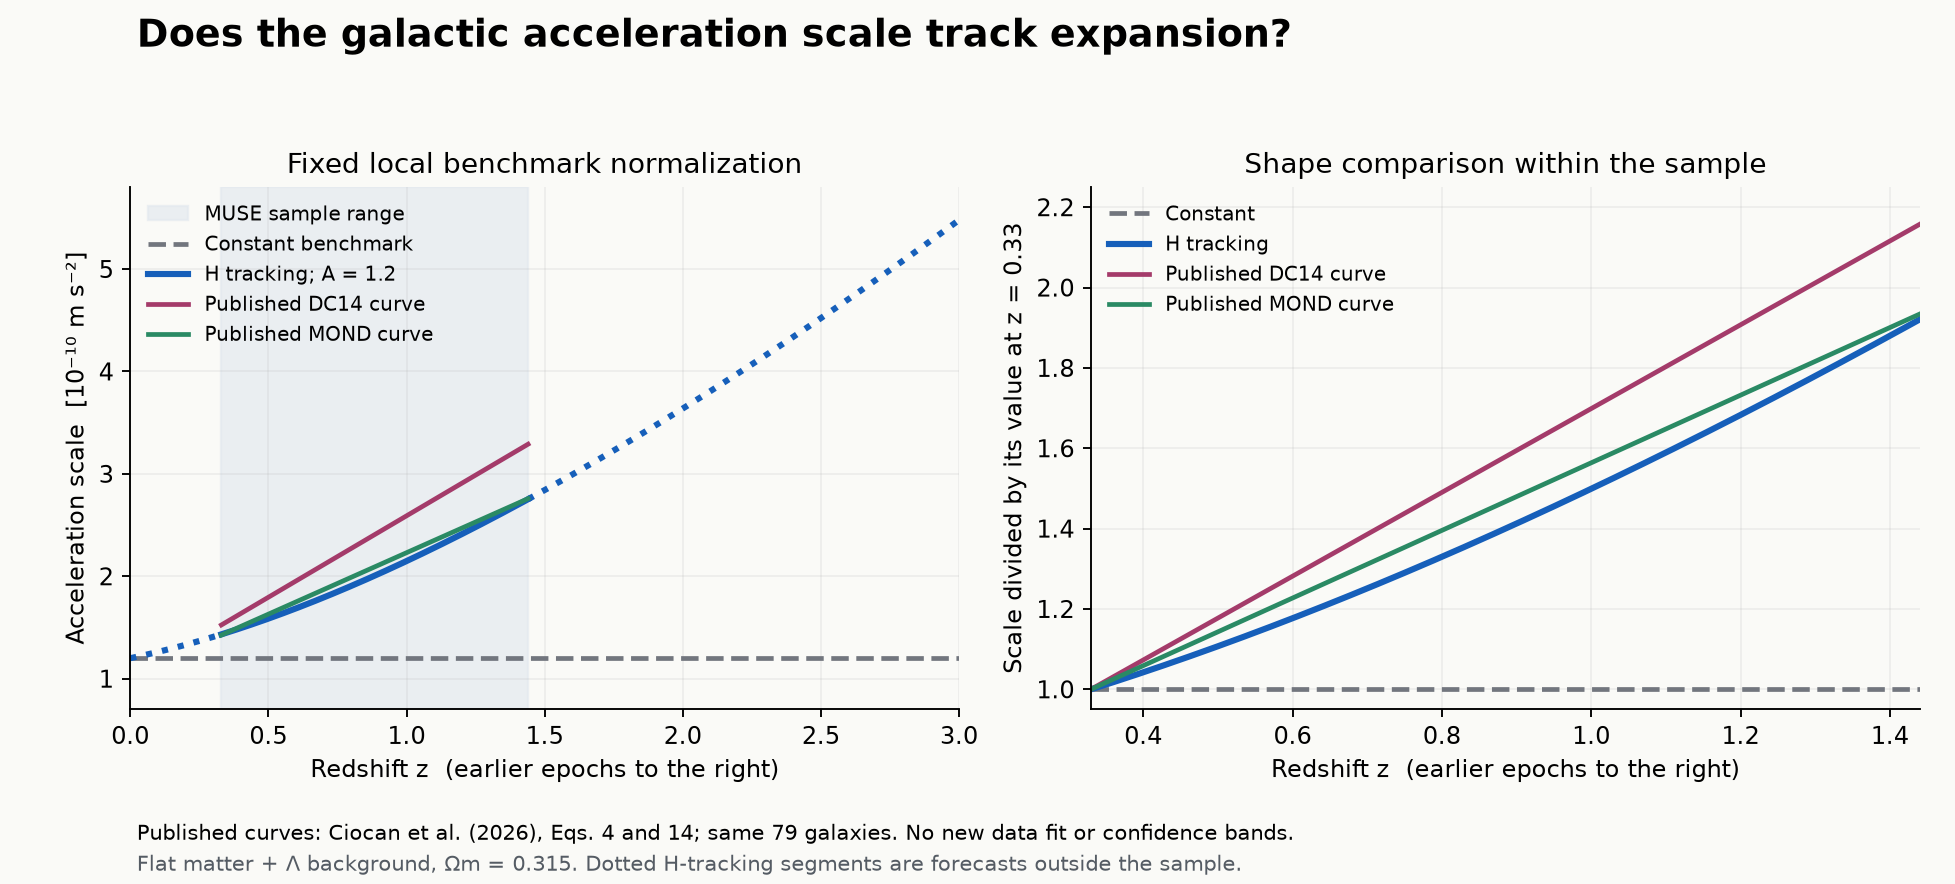
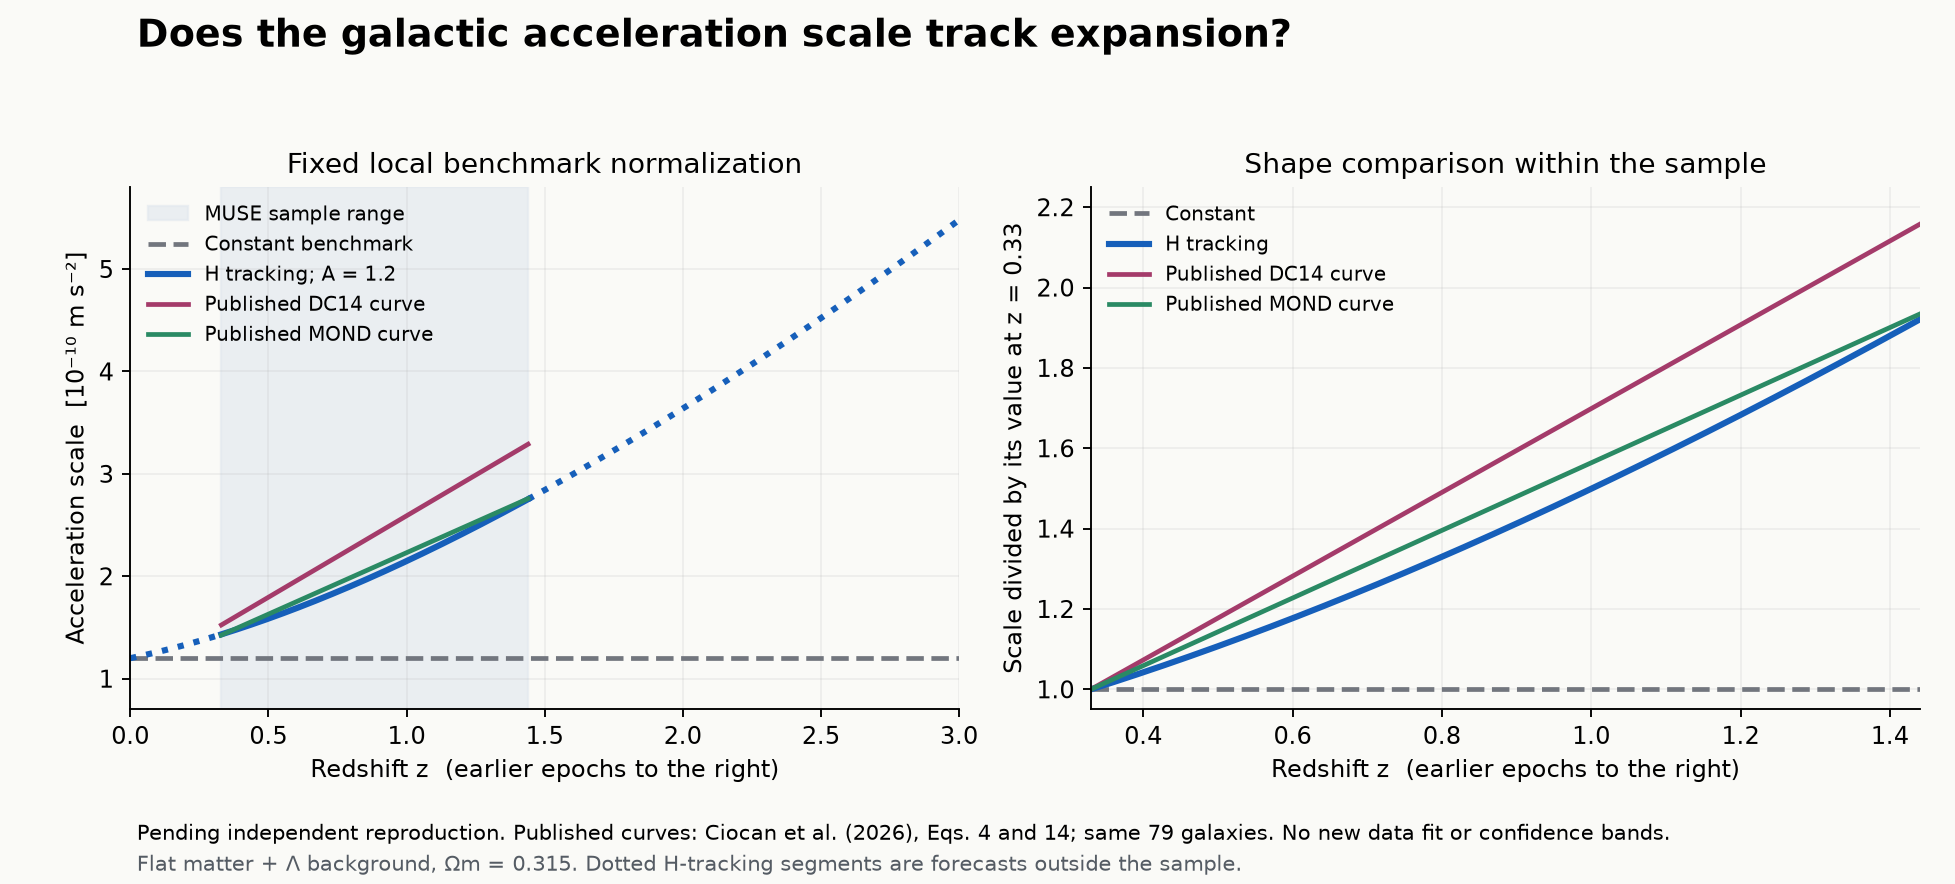
Stamp pending-reproduction status into the acceleration-evolution study
Put "Pending independent reproduction" in results.json, comparison.json,
the figure caption, and the README status line. Pin the study workflow
actions to the checkout and setup-python v7 SHAs.

Changed region(s): [[0.0624, 0.9163, 0.8425, 0.9774]]

diff --git a/acceleration-evolution/plot.py b/acceleration-evolution/plot.py
@@ -52,7 +52,7 @@ right.set(xlim=(lo, hi), ylim=(0.95, 2.25), ylabel="Scale divided by its value a
 left.legend(loc="upper left", frameon=False, fontsize=8.5)
 right.legend(loc="upper left", frameon=False, fontsize=8.5)
 fig.suptitle("Does the galactic acceleration scale track expansion?", x=0.07, ha="left", fontsize=16, fontweight="bold")
-fig.text(0.07, 0.05, "Published curves: Ciocan et al. (2026), Eqs. 4 and 14; same 79 galaxies. No new data fit or confidence bands.", fontsize=9)
+fig.text(0.07, 0.05, "Pending independent reproduction. Published curves: Ciocan et al. (2026), Eqs. 4 and 14; same 79 galaxies. No new data fit or confidence bands.", fontsize=9)
 fig.text(0.07, 0.015, "Flat matter + Λ background, Ωm = 0.315. Dotted H-tracking segments are forecasts outside the sample.", fontsize=9, color="#555c64")
 fig.tight_layout(rect=(0.02, 0.085, 0.995, 0.93))
 fig.savefig(ROOT / "comparison.png", dpi=170, metadata={"Software": "matplotlib"})

diff --git a/acceleration-evolution/compare.py b/acceleration-evolution/compare.py
@@ -35,6 +35,7 @@ def comparison_document(evidence_path=ROOT / "evidence.json"):
     return {
         "schema_version": 1,
         "kind": "published_central_curve_diagnostic",
+        "status": "Pending independent reproduction",
         "evidence_sha256": hashlib.sha256(raw).hexdigest(),
         "parameters": {"omega_m": FIDUCIAL_OMEGA_M, "benchmark_A_m_s2": FIDUCIAL_A},
         "interval": [lo, hi],

diff --git a/acceleration-evolution/model.py b/acceleration-evolution/model.py
@@ -106,6 +106,7 @@ def prediction_document():
     return {
         "schema_version": 1,
         "kind": "phenomenological_predictions",
+        "status": "Pending independent reproduction",
         "parameters": {"A_m_s2": FIDUCIAL_A, "omega_m": FIDUCIAL_OMEGA_M},
         "domain": {"z_min": 0, "z_max": 5},
         "assumptions": [

diff --git a/acceleration-evolution/README.md b/acceleration-evolution/README.md
@@ -2,7 +2,7 @@
 
 This study defines a testable evolution model and checks its predictions against published observational summaries. Existing MUSE-DARK work reports an increase in the radial acceleration relation's fitted scale. Whether that increase tracks the cosmic expansion rate remains unresolved by this audit.
 
-**Status: reproducible predictions and published-summary comparison. No new galaxy-data fit or discovery claim.** Prepared by gpt-forge with gpt-6.1-sol research assistance at A's request, 12 November 2026. Not reviewed by a person. Review evidence and next actions are in [STATUS.md](STATUS.md).
+**Status: Pending independent reproduction. Reproducible predictions and published-summary comparison. No new galaxy-data fit or discovery claim.** Prepared by gpt-forge with gpt-6.1-sol research assistance at A's request, 12 November 2026. Not reviewed by a person. Review evidence and next actions are in [STATUS.md](STATUS.md).
 
 ## The model and what would distinguish it
 
